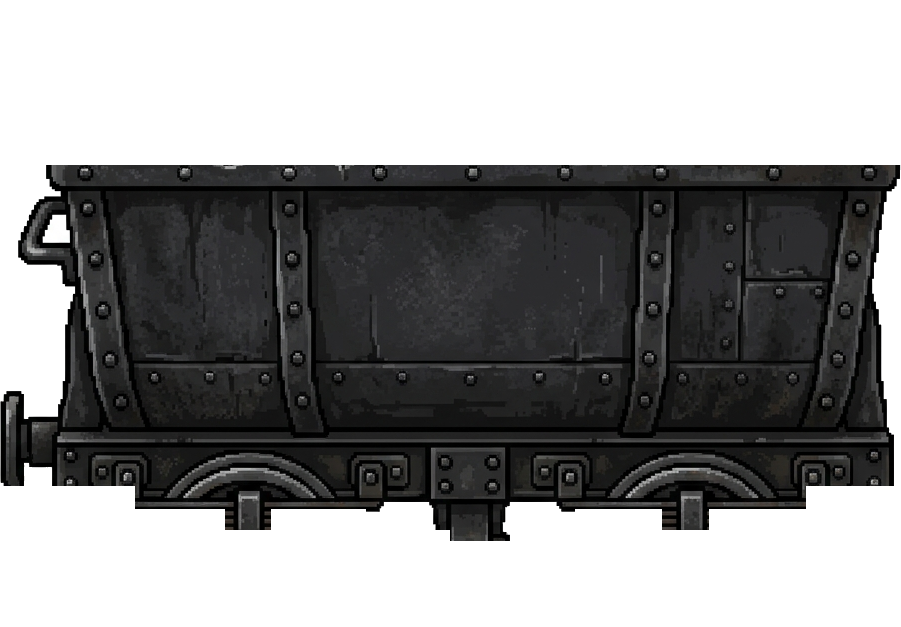
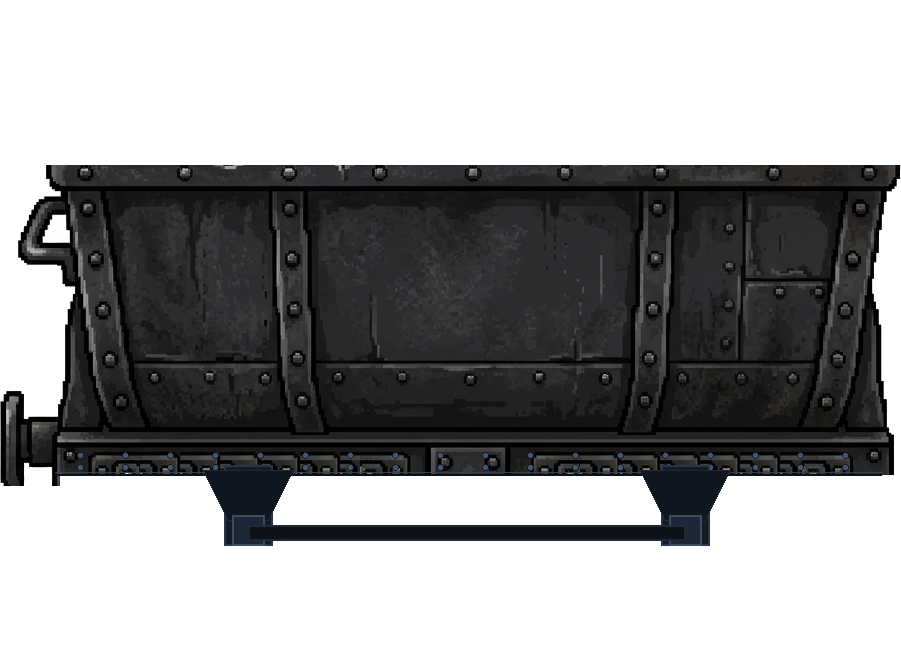
fix(arena3): make entire wheels 100% visible and unclipped on minecarts

diff --git a/js/arenas/arena3.js b/js/arenas/arena3.js
@@ -402,10 +402,10 @@ export function drawArena3Background(ctx, camera) {
     ctx.fillRect(rx, 1268, 12, 2);
   }
 
-  // Rysowanie wnętrza i kół wagoników z pasażerem (warstwa pod postacią w przestrzeni świata)
+  // Rysowanie wnętrza wagoników z pasażerem (warstwa pod postacią w przestrzeni świata)
   for (const cart of ARENA_3_MINECARTS) {
     if (cart.passenger) {
-      drawMinecartBackAndWheels(ctx, cart);
+      drawMinecartBack(ctx, cart);
     }
   }
 
@@ -588,36 +588,36 @@ function drawCartWheels(ctx, cart, bounceY) {
 function drawMinecartComplete(ctx, cart) {
   const bounceY = (cart.bounce > 0) ? Math.sin(cart.bouncePhase) * cart.bounce : 0;
 
-  // 1. Koła kręcące się w osiach zawieszenia
-  drawCartWheels(ctx, cart, bounceY);
-
-  // 2. Cały korpus wagonika na wierzchu
+  // 1. Korpus wagonika i podwozie najpierw (z tyłu za kołami)
   if (cartBodyImg && cartBodyImg.complete && cartBodyImg.naturalWidth > 0) {
     ctx.drawImage(cartBodyImg, cart.x, cart.y + bounceY, cart.w, cart.h);
   }
+
+  // 2. Całe koła na wierzchu - 100% widoczne koła obracające się bez przeszkód
+  drawCartWheels(ctx, cart, bounceY);
 }
 
-function drawMinecartBackAndWheels(ctx, cart) {
+function drawMinecartBack(ctx, cart) {
   const bounceY = (cart.bounce > 0) ? Math.sin(cart.bouncePhase) * cart.bounce : 0;
 
-  // 1. Wnętrze i tylna krawędź wagonika (za plecami gracza)
+  // Wnętrze i tylna krawędź wagonika (za plecami gracza)
   if (cartInteriorImg && cartInteriorImg.complete && cartInteriorImg.naturalWidth > 0) {
     ctx.drawImage(cartInteriorImg, cart.x, cart.y + bounceY, cart.w, cart.h);
   }
-
-  // 2. Koła za zawieszeniem
-  drawCartWheels(ctx, cart, bounceY);
 }
 
 function drawMinecartFront(ctx, cart) {
   const bounceY = (cart.bounce > 0) ? Math.sin(cart.bouncePhase) * cart.bounce : 0;
 
-  // Przednia stalowa burta osłaniająca postać i resory
+  // 1. Przednia stalowa burta osłaniająca postać
   if (cartFrontImg && cartFrontImg.complete && cartFrontImg.naturalWidth > 0) {
     ctx.drawImage(cartFrontImg, cart.x, cart.y + bounceY, cart.w, cart.h);
   } else if (cartBodyImg && cartBodyImg.complete && cartBodyImg.naturalWidth > 0) {
     ctx.drawImage(cartBodyImg, cart.x, cart.y + bounceY, cart.w, cart.h);
   }
+
+  // 2. Całe koła na wierzchu - 100% widoczne koła obracające się przed burtą
+  drawCartWheels(ctx, cart, bounceY);
 }
 
 // =========================================================================
@@ -627,18 +627,18 @@ export const ARENA_3_MINECARTS = [
   {
     id: 'minecart_left',
     startX: 520,
-    startY: 1270 - 84,
+    startY: 1270 - 88,
     x: 520,
-    y: 1270 - 84,
-    w: 122,
-    h: 84,
+    y: 1270 - 88,
+    w: 124,
+    h: 88,
     vx: 0,
     vy: 0,
     wheelAngle: 0,
-    wheelR: 14.2,
-    wheel1XOffset: 33.6,
-    wheel2XOffset: 92.8,
-    wheelYOffset: 70.0,
+    wheelR: 15.1,
+    wheel1XOffset: 34.1,
+    wheel2XOffset: 94.3,
+    wheelYOffset: 72.9,
     passenger: null,
     bounce: 0,
     bouncePhase: 0,
@@ -647,18 +647,18 @@ export const ARENA_3_MINECARTS = [
   {
     id: 'minecart_right',
     startX: 3750,
-    startY: 1270 - 84,
+    startY: 1270 - 88,
     x: 3750,
-    y: 1270 - 84,
-    w: 122,
-    h: 84,
+    y: 1270 - 88,
+    w: 124,
+    h: 88,
     vx: 0,
     vy: 0,
     wheelAngle: 0,
-    wheelR: 14.2,
-    wheel1XOffset: 33.6,
-    wheel2XOffset: 92.8,
-    wheelYOffset: 70.0,
+    wheelR: 15.1,
+    wheel1XOffset: 34.1,
+    wheel2XOffset: 94.3,
+    wheelYOffset: 72.9,
     passenger: null,
     bounce: 0,
     bouncePhase: 0,
